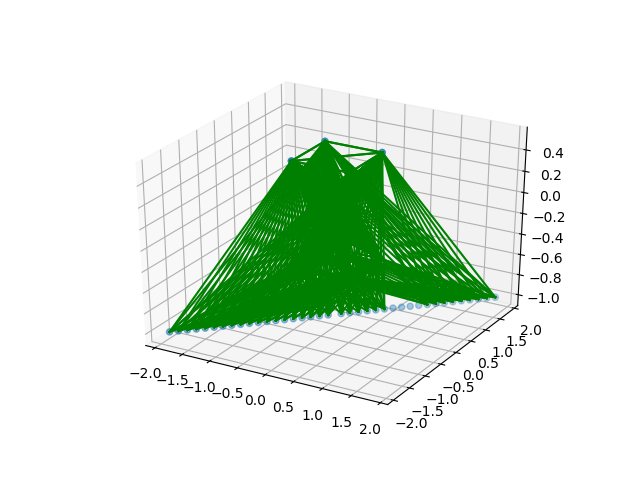
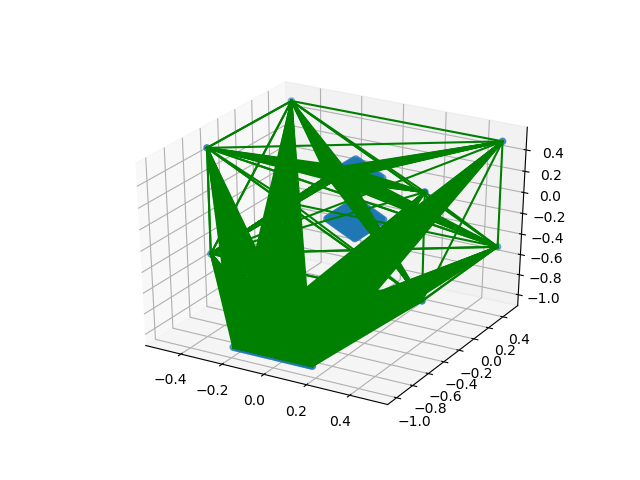
latest

diff --git a/trading_purples.py b/trading_purples.py
@@ -22,7 +22,7 @@ class PurpleTrader:
     #needs to be initialized so as to allow for 62 outputs that return a coordinate
 
     # ES-HyperNEAT specific parameters.
-    params = {"initial_depth": 2, 
+    params = {"initial_depth": 3, 
             "max_depth": 6, 
             "variance_threshold": 0.0013, 
             "band_threshold": 0.034, 
@@ -56,7 +56,7 @@ class PurpleTrader:
         sign = 1
         for ix in range(1,self.outputs+1):
             sign = sign *-1
-            self.out_shapes.append((0.0-(sign*.05*ix), -1.0, -1.0))
+            self.out_shapes.append((0.0-(sign*.005*ix), -1.0, -1.0))
             for ix2 in range(1,(self.inputs//self.outputs)+1):
                 self.in_shapes.append((0.0-(sign*.01*ix2), 0.0+(sign*.01*ix), 0.0+(sign*.01*ix2)))
         self.subStrate = Substrate(self.in_shapes, self.out_shapes)
@@ -127,7 +127,7 @@ class PurpleTrader:
 
             cppn = neat.nn.FeedForwardNetwork.create(g, config)
             network = ESNetwork(self.subStrate, cppn, self.params)
-            net = network.create_phenotype_network_nd()
+            net = network.create_phenotype_network_nd("current_net.png")
             g.fitness = self.evaluate(net, network, r_start)
         
 
@@ -147,7 +147,7 @@ def run_pop(task, gens):
 # If run as script.
 if __name__ == '__main__':
     task = PurpleTrader(55)
-    winner = run_pop(task, 34)[0]
+    winner = run_pop(task, 21)[0]
     print('\nBest genome:\n{!s}'.format(winner))
 
     # Verify network output against training data.
